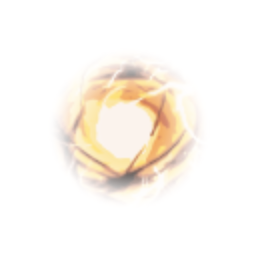
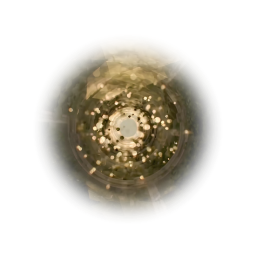
power icon资源更新、power orb panel更新

diff --git a/src/main/java/rhinemod/powers/IdealistFormPower.java b/src/main/java/rhinemod/powers/IdealistFormPower.java
@@ -14,8 +14,6 @@ import com.megacrit.cardcrawl.monsters.AbstractMonster;
 import com.megacrit.cardcrawl.powers.AbstractPower;
 import rhinemod.cards.AbstractRhineCard;
 
-import java.util.logging.Logger;
-
 public class IdealistFormPower extends AbstractPower {
     public static final String POWER_ID = "rhinemod:IdealistFormPower";
     public static final PowerStrings powerStrings = CardCrawlGame.languagePack.getPowerStrings(POWER_ID);
@@ -28,8 +26,8 @@ public class IdealistFormPower extends AbstractPower {
         this.name = NAME;
         this.type = PowerType.BUFF;
         this.owner = owner;
-        region128 = new TextureAtlas.AtlasRegion(ImageMaster.loadImage("resources/rhinemod/images/powers/BionicDevice 84.png"), 0, 0, 84, 84);
-        region48 = new TextureAtlas.AtlasRegion(ImageMaster.loadImage("resources/rhinemod/images/powers/BionicDevice 32.png"), 0, 0, 32, 32);
+        region128 = new TextureAtlas.AtlasRegion(ImageMaster.loadImage("resources/rhinemod/images/powers/IdealistForm 84.png"), 0, 0, 84, 84);
+        region48 = new TextureAtlas.AtlasRegion(ImageMaster.loadImage("resources/rhinemod/images/powers/IdealistForm 32.png"), 0, 0, 32, 32);
         this.amount = amount;
         played = 0;
         updateDescription();
@@ -37,27 +35,23 @@ public class IdealistFormPower extends AbstractPower {
 
     @Override
     public void updateDescription() {
-        description = DESCRIPTIONS[0] + amount + DESCRIPTIONS[1] + DESCRIPTIONS[7];
+        StringBuilder sb = new StringBuilder();
+        sb.append(DESCRIPTIONS[0]);
+        sb.append(amount);
+        sb.append(DESCRIPTIONS[1]);
+        if (played != 0) {
+            sb.append(DESCRIPTIONS[7]);
+        }
         boolean first = true;
-        if ((played & 1) != 0) {
-            if (!first) description += DESCRIPTIONS[6];
-            first = false;
-            description += DESCRIPTIONS[2];
+        for (int i = 0; i < 3; i++) {
+            if ((played & (1 << i)) != 0) {
+                if (!first) sb.append(DESCRIPTIONS[6]);
+                first = false;
+                sb.append(DESCRIPTIONS[i + 2]);
+            }
         }
-        if ((played & 2) != 0) {
-            if (!first) description += DESCRIPTIONS[6];
-            first = false;
-            description += DESCRIPTIONS[3];
-        }
-        if ((played & 4) != 0) {
-            if (!first) description += DESCRIPTIONS[6];
-            first = false;
-            description += DESCRIPTIONS[4];
-        }
-        description += DESCRIPTIONS[5];
-        if (first) {
-            description = DESCRIPTIONS[0] + amount + DESCRIPTIONS[1];
-        }
+        sb.append(DESCRIPTIONS[5]);
+        description = sb.toString();
     }
 
     @Override
@@ -75,8 +69,7 @@ public class IdealistFormPower extends AbstractPower {
     public void onPlayCard(AbstractCard card, AbstractMonster m) {
         if (!(card instanceof AbstractRhineCard)) return;
         int branch = ((AbstractRhineCard) card).realBranch;
-        if (branch == 0) return;
-        if (branch == -1) return;
+        if (branch <= 0) return;
         played |= 1 << (branch - 1);
         updateDescription();
     }

diff --git a/src/main/java/rhinemod/characters/RhineLab.java b/src/main/java/rhinemod/characters/RhineLab.java
@@ -61,14 +61,14 @@ public class RhineLab extends CustomPlayer {
     public static final String SHOULDER = "resources/rhinemod/images/char/shoulder.png";
     public static final String[] orbTextures = {
         "resources/rhinemod/images/char/orb/layer1.png",
+        "resources/rhinemod/images/char/orb/EmptyLayer.png",
+        "resources/rhinemod/images/char/orb/EmptyLayer.png",
+        "resources/rhinemod/images/char/orb/EmptyLayer.png",
         "resources/rhinemod/images/char/orb/layer2.png",
-        "resources/rhinemod/images/char/orb/layer3.png",
-        "resources/rhinemod/images/char/orb/layer4.png",
-        "resources/rhinemod/images/char/orb/layer5.png",
         "resources/rhinemod/images/char/orb/layer1d.png",
-        "resources/rhinemod/images/char/orb/layer2d.png",
-        "resources/rhinemod/images/char/orb/layer3d.png",
-        "resources/rhinemod/images/char/orb/layer4d.png"
+        "resources/rhinemod/images/char/orb/EmptyLayer.png",
+        "resources/rhinemod/images/char/orb/EmptyLayer.png",
+        "resources/rhinemod/images/char/orb/EmptyLayer.png",
     };
     public GlobalAttributes globalAttributes = new GlobalAttributes();
     public static final float[] POSX = new float[] { 275.0F, 305.0F, 245.0F, 85.0F, -75.0F, -235.0F };
@@ -80,7 +80,7 @@ public class RhineLab extends CustomPlayer {
 
     public RhineLab(String name) {
         // 参数列表：角色名，角色类枚举，能量面板贴图路径列表，能量面板特效贴图路径，能量面板贴图旋转速度列表，能量面板，模型资源路径，动画资源路径
-        super(name, RhineEnum.RHINE_CLASS, orbTextures, "resources/rhinemod/images/char/orb/vfx.png", null, null, null);
+        super(name, RhineEnum.RHINE_CLASS, orbTextures, "resources/rhinemod/images/char/orb/vfx.png", new float[]{0, 0, 0, 0, 20}, null, null);
 
         dialogX = this.drawX;
         dialogY = this.drawY + 200.0F * Settings.scale;

diff --git a/src/main/java/rhinemod/powers/QuickwaterArea.java b/src/main/java/rhinemod/powers/QuickwaterArea.java
@@ -10,18 +10,18 @@ import com.megacrit.cardcrawl.helpers.ImageMaster;
 import com.megacrit.cardcrawl.localization.PowerStrings;
 import com.megacrit.cardcrawl.powers.AbstractPower;
 
-public class FlowingWater extends AbstractPower {
-    public static final String POWER_ID = "rhinemod:FlowingWater";
+public class QuickwaterArea extends AbstractPower {
+    public static final String POWER_ID = "rhinemod:QuickwaterArea";
     public static final PowerStrings powerStrings = CardCrawlGame.languagePack.getPowerStrings(POWER_ID);
     public static final String NAME = powerStrings.NAME;
     public static final String[] DESCRIPTIONS = powerStrings.DESCRIPTIONS;
-    public FlowingWater(AbstractCreature owner, int amount) {
+    public QuickwaterArea(AbstractCreature owner, int amount) {
         this.ID = POWER_ID;
         this.name = NAME;
         this.type = PowerType.BUFF;
         this.owner = owner;
-        region128 = new TextureAtlas.AtlasRegion(ImageMaster.loadImage("resources/rhinemod/images/powers/BionicDevice 84.png"), 0, 0, 84, 84);
-        region48 = new TextureAtlas.AtlasRegion(ImageMaster.loadImage("resources/rhinemod/images/powers/BionicDevice 32.png"), 0, 0, 32, 32);
+        region128 = new TextureAtlas.AtlasRegion(ImageMaster.loadImage("resources/rhinemod/images/powers/QuickwaterArea 84.png"), 0, 0, 84, 84);
+        region48 = new TextureAtlas.AtlasRegion(ImageMaster.loadImage("resources/rhinemod/images/powers/QuickwaterArea 32.png"), 0, 0, 32, 32);
         this.amount = amount;
         updateDescription();
     }

diff --git a/src/main/java/rhinemod/powers/Equality.java b/src/main/java/rhinemod/powers/Equality.java
@@ -7,18 +7,18 @@ import com.megacrit.cardcrawl.helpers.ImageMaster;
 import com.megacrit.cardcrawl.localization.PowerStrings;
 import com.megacrit.cardcrawl.powers.AbstractPower;
 
-public class Average extends AbstractPower {
-    public static final String POWER_ID = "rhinemod:Average";
+public class Equality extends AbstractPower {
+    public static final String POWER_ID = "rhinemod:Equality";
     public static final PowerStrings powerStrings = CardCrawlGame.languagePack.getPowerStrings(POWER_ID);
     public static final String NAME = powerStrings.NAME;
     public static final String[] DESCRIPTIONS = powerStrings.DESCRIPTIONS;
-    public Average(AbstractCreature owner) {
+    public Equality(AbstractCreature owner) {
         this.ID = POWER_ID;
         this.name = NAME;
         this.type = PowerType.BUFF;
         this.owner = owner;
-        region128 = new TextureAtlas.AtlasRegion(ImageMaster.loadImage("resources/rhinemod/images/powers/BionicDevice 84.png"), 0, 0, 84, 84);
-        region48 = new TextureAtlas.AtlasRegion(ImageMaster.loadImage("resources/rhinemod/images/powers/BionicDevice 32.png"), 0, 0, 32, 32);
+        region128 = new TextureAtlas.AtlasRegion(ImageMaster.loadImage("resources/rhinemod/images/powers/Equality 84.png"), 0, 0, 84, 84);
+        region48 = new TextureAtlas.AtlasRegion(ImageMaster.loadImage("resources/rhinemod/images/powers/Equality 32.png"), 0, 0, 32, 32);
         updateDescription();
     }
 

diff --git a/src/main/java/rhinemod/powers/AuxiliaryDronePower.java b/src/main/java/rhinemod/powers/AuxiliaryDronePower.java
@@ -8,7 +8,6 @@ import com.megacrit.cardcrawl.core.CardCrawlGame;
 import com.megacrit.cardcrawl.helpers.ImageMaster;
 import com.megacrit.cardcrawl.localization.PowerStrings;
 import com.megacrit.cardcrawl.powers.AbstractPower;
-import com.megacrit.cardcrawl.powers.BufferPower;
 
 public class AuxiliaryDronePower extends AbstractPower {
     public static final String POWER_ID = "rhinemod:AuxiliaryDronePower";
@@ -21,8 +20,8 @@ public class AuxiliaryDronePower extends AbstractPower {
         this.type = PowerType.BUFF;
         this.owner = owner;
         this.amount = amount;
-        region128 = new TextureAtlas.AtlasRegion(ImageMaster.loadImage("resources/rhinemod/images/powers/Stunned 128.png"), 0, 0, 128, 128);
-        region48 = new TextureAtlas.AtlasRegion(ImageMaster.loadImage("resources/rhinemod/images/powers/Stunned 48.png"), 0, 0, 48, 48);
+        region128 = new TextureAtlas.AtlasRegion(ImageMaster.loadImage("resources/rhinemod/images/powers/AuxiliaryDrone 84.png"), 0, 0, 84, 84);
+        region48 = new TextureAtlas.AtlasRegion(ImageMaster.loadImage("resources/rhinemod/images/powers/AuxiliaryDrone 32.png"), 0, 0, 32, 32);
         updateDescription();
     }
 

diff --git a/src/main/java/rhinemod/powers/ResearchProgress.java b/src/main/java/rhinemod/powers/ResearchProgress.java
@@ -1,9 +1,11 @@
 package rhinemod.powers;
 
+import com.badlogic.gdx.graphics.g2d.TextureAtlas;
 import com.megacrit.cardcrawl.actions.common.ApplyPowerAction;
 import com.megacrit.cardcrawl.actions.common.ReducePowerAction;
 import com.megacrit.cardcrawl.core.AbstractCreature;
 import com.megacrit.cardcrawl.core.CardCrawlGame;
+import com.megacrit.cardcrawl.helpers.ImageMaster;
 import com.megacrit.cardcrawl.localization.PowerStrings;
 import com.megacrit.cardcrawl.powers.AbstractPower;
 import com.megacrit.cardcrawl.powers.MetallicizePower;
@@ -20,7 +22,8 @@ public class ResearchProgress extends AbstractPower {
         this.type = PowerType.BUFF;
         this.owner = owner;
         this.amount = amount;
-        this.loadRegion("curiosity");
+        region128 = new TextureAtlas.AtlasRegion(ImageMaster.loadImage("resources/rhinemod/images/powers/ResearchProgress 84.png"), 0, 0, 84, 84);
+        region48 = new TextureAtlas.AtlasRegion(ImageMaster.loadImage("resources/rhinemod/images/powers/ResearchProgress 32.png"), 0, 0, 32, 32);
         this.priority = 0;
         canGoNegative = true;
         updateDescription();

diff --git a/src/main/java/rhinemod/powers/IdealistFormPowerS.java b/src/main/java/rhinemod/powers/IdealistFormPowerS.java
@@ -1,19 +1,12 @@
 package rhinemod.powers;
 
 import com.badlogic.gdx.graphics.g2d.TextureAtlas;
-import com.megacrit.cardcrawl.actions.common.ExhaustSpecificCardAction;
-import com.megacrit.cardcrawl.cards.AbstractCard;
 import com.megacrit.cardcrawl.core.AbstractCreature;
 import com.megacrit.cardcrawl.core.CardCrawlGame;
-import com.megacrit.cardcrawl.dungeons.AbstractDungeon;
 import com.megacrit.cardcrawl.helpers.ImageMaster;
 import com.megacrit.cardcrawl.localization.PowerStrings;
 import com.megacrit.cardcrawl.powers.AbstractPower;
-import rhinemod.actions.AddCalciumAction;
 import rhinemod.actions.IdealistFormSAction;
-import rhinemod.cards.special.Unscrupulous;
-
-import java.util.ArrayList;
 
 public class IdealistFormPowerS extends AbstractPower {
     public static final String POWER_ID = "rhinemod:IdealistFormPowerS";

diff --git a/src/main/java/rhinemod/monsters/Awaken_Monster.java b/src/main/java/rhinemod/monsters/Awaken_Monster.java
@@ -12,7 +12,7 @@ import com.megacrit.cardcrawl.monsters.AbstractMonster;
 import com.megacrit.cardcrawl.vfx.combat.InflameEffect;
 import rhinemod.actions.AwakenAction;
 import rhinemod.actions.SummonMechAction;
-import rhinemod.powers.Average;
+import rhinemod.powers.Equality;
 import rhinemod.powers.Journey;
 
 public class Awaken_Monster extends AbstractRhineMonster {
@@ -62,7 +62,7 @@ public class Awaken_Monster extends AbstractRhineMonster {
 
     @Override
     public void usePreBattleAction() {
-        addToBot(new ApplyPowerAction(this, this, new Average(this)));
+        addToBot(new ApplyPowerAction(this, this, new Equality(this)));
         addToBot(new ApplyPowerAction(this, this, new Journey(this, stage1Journey)));
         CardCrawlGame.music.fadeOutTempBGM();
         AbstractDungeon.scene.fadeOutAmbiance();

diff --git a/src/main/java/rhinemod/powers/CriticalPointPower.java b/src/main/java/rhinemod/powers/CriticalPointPower.java
@@ -17,8 +17,8 @@ public class CriticalPointPower extends AbstractPower {
         this.name = NAME;
         this.type = PowerType.BUFF;
         this.owner = owner;
-        region128 = new TextureAtlas.AtlasRegion(ImageMaster.loadImage("resources/rhinemod/images/powers/BionicDevice 84.png"), 0, 0, 84, 84);
-        region48 = new TextureAtlas.AtlasRegion(ImageMaster.loadImage("resources/rhinemod/images/powers/BionicDevice 32.png"), 0, 0, 32, 32);
+        region128 = new TextureAtlas.AtlasRegion(ImageMaster.loadImage("resources/rhinemod/images/powers/CriticalPoint 84.png"), 0, 0, 84, 84);
+        region48 = new TextureAtlas.AtlasRegion(ImageMaster.loadImage("resources/rhinemod/images/powers/CriticalPoint 32.png"), 0, 0, 32, 32);
         this.amount = amount;
         updateDescription();
     }

diff --git a/src/main/java/rhinemod/powers/NoStun.java b/src/main/java/rhinemod/powers/NoStun.java
@@ -18,8 +18,8 @@ public class NoStun extends AbstractPower implements OnReceivePowerPower {
         this.name = NAME;
         this.type = PowerType.BUFF;
         this.owner = owner;
-        region128 = new TextureAtlas.AtlasRegion(ImageMaster.loadImage("resources/rhinemod/images/powers/Stunned 128.png"), 0, 0, 128, 128);
-        region48 = new TextureAtlas.AtlasRegion(ImageMaster.loadImage("resources/rhinemod/images/powers/Stunned 48.png"), 0, 0, 48, 48);
+        region128 = new TextureAtlas.AtlasRegion(ImageMaster.loadImage("resources/rhinemod/images/powers/NoStun 128.png"), 0, 0, 128, 128);
+        region48 = new TextureAtlas.AtlasRegion(ImageMaster.loadImage("resources/rhinemod/images/powers/NoStun 48.png"), 0, 0, 48, 48);
         this.priority = 100;
         updateDescription();
     }

diff --git a/src/main/java/rhinemod/cards/QuicksandGeneration.java b/src/main/java/rhinemod/cards/QuicksandGeneration.java
@@ -10,7 +10,7 @@ import com.megacrit.cardcrawl.monsters.AbstractMonster;
 import com.megacrit.cardcrawl.powers.WeakPower;
 import rhinemod.interfaces.UpgradeBranch;
 import rhinemod.patches.AbstractCardEnum;
-import rhinemod.powers.FlowingWater;
+import rhinemod.powers.QuickwaterArea;
 
 import java.util.ArrayList;
 import java.util.List;
@@ -52,7 +52,7 @@ public class QuicksandGeneration extends AbstractRhineCard {
             for (int i = 0; i < list.size(); i++)
                 addToBot(new ApplyPowerAction(list.get(i), p, new WeakPower(list.get(i), avg + (i < fir ? 1 : 0), false)));
         } else {
-            addToBot(new ApplyPowerAction(p, p, new FlowingWater(p, magicNumber)));
+            addToBot(new ApplyPowerAction(p, p, new QuickwaterArea(p, magicNumber)));
         }
     }
 

diff --git a/src/main/java/rhinemod/powers/AutoAttack.java b/src/main/java/rhinemod/powers/AutoAttack.java
@@ -23,8 +23,8 @@ public class AutoAttack extends AbstractPower {
         this.type = PowerType.BUFF;
         this.owner = owner;
         this.decAmount = 1;
-        region128 = new TextureAtlas.AtlasRegion(ImageMaster.loadImage("resources/rhinemod/images/powers/BionicDevice 84.png"), 0, 0, 84, 84);
-        region48 = new TextureAtlas.AtlasRegion(ImageMaster.loadImage("resources/rhinemod/images/powers/BionicDevice 32.png"), 0, 0, 32, 32);
+        region128 = new TextureAtlas.AtlasRegion(ImageMaster.loadImage("resources/rhinemod/images/powers/AutoAttack 128.png"), 0, 0, 128, 128);
+        region48 = new TextureAtlas.AtlasRegion(ImageMaster.loadImage("resources/rhinemod/images/powers/AutoAttack 48.png"), 0, 0, 48, 48);
         this.amount = amount;
         updateDescription();
     }
